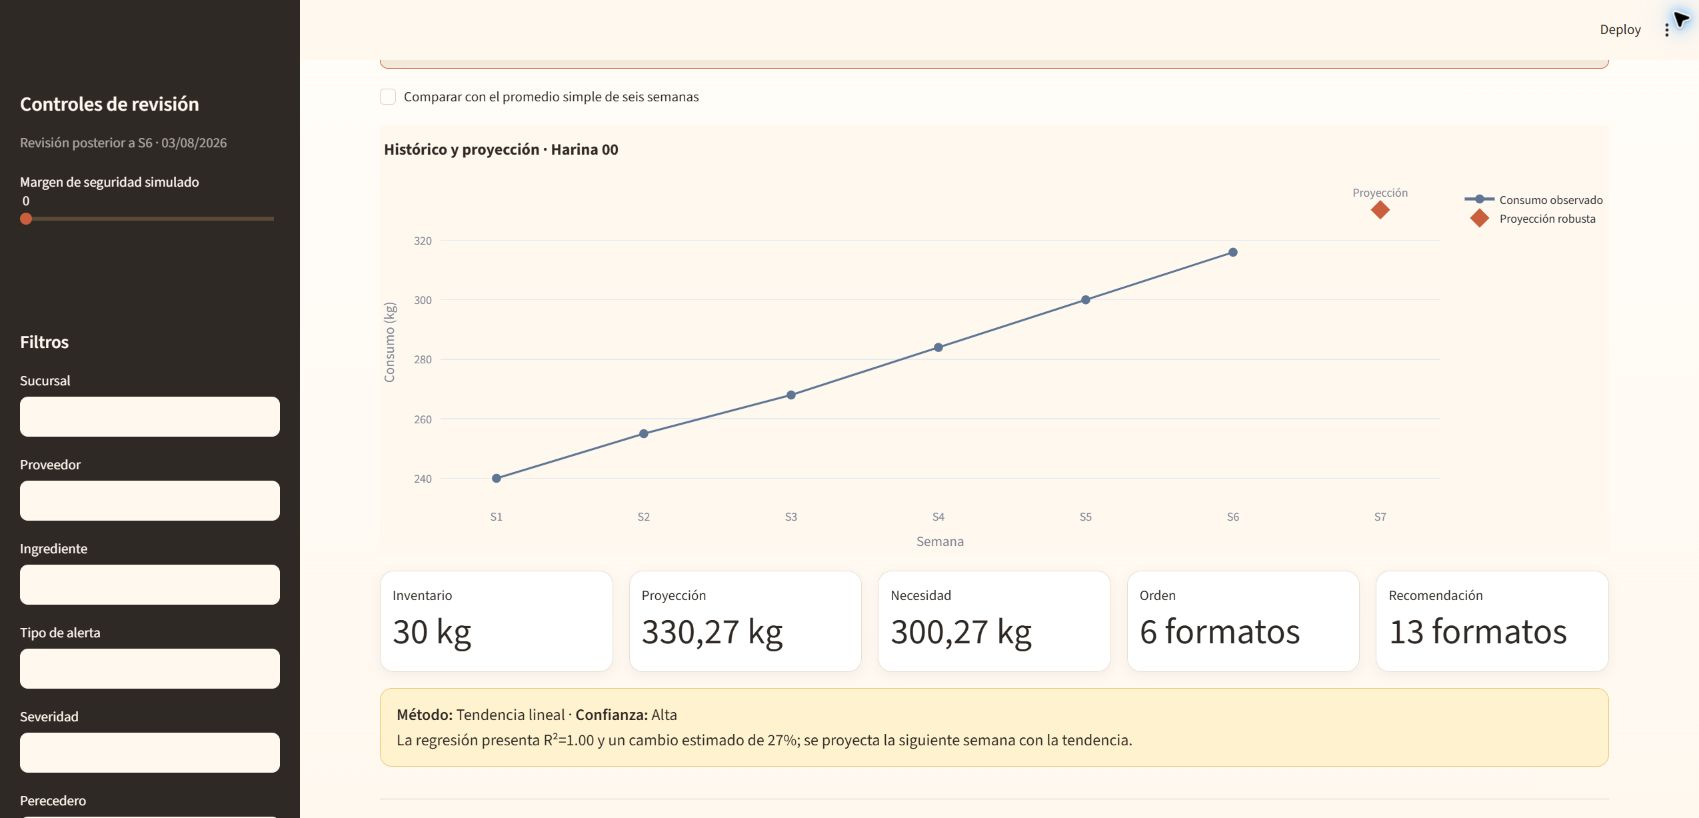
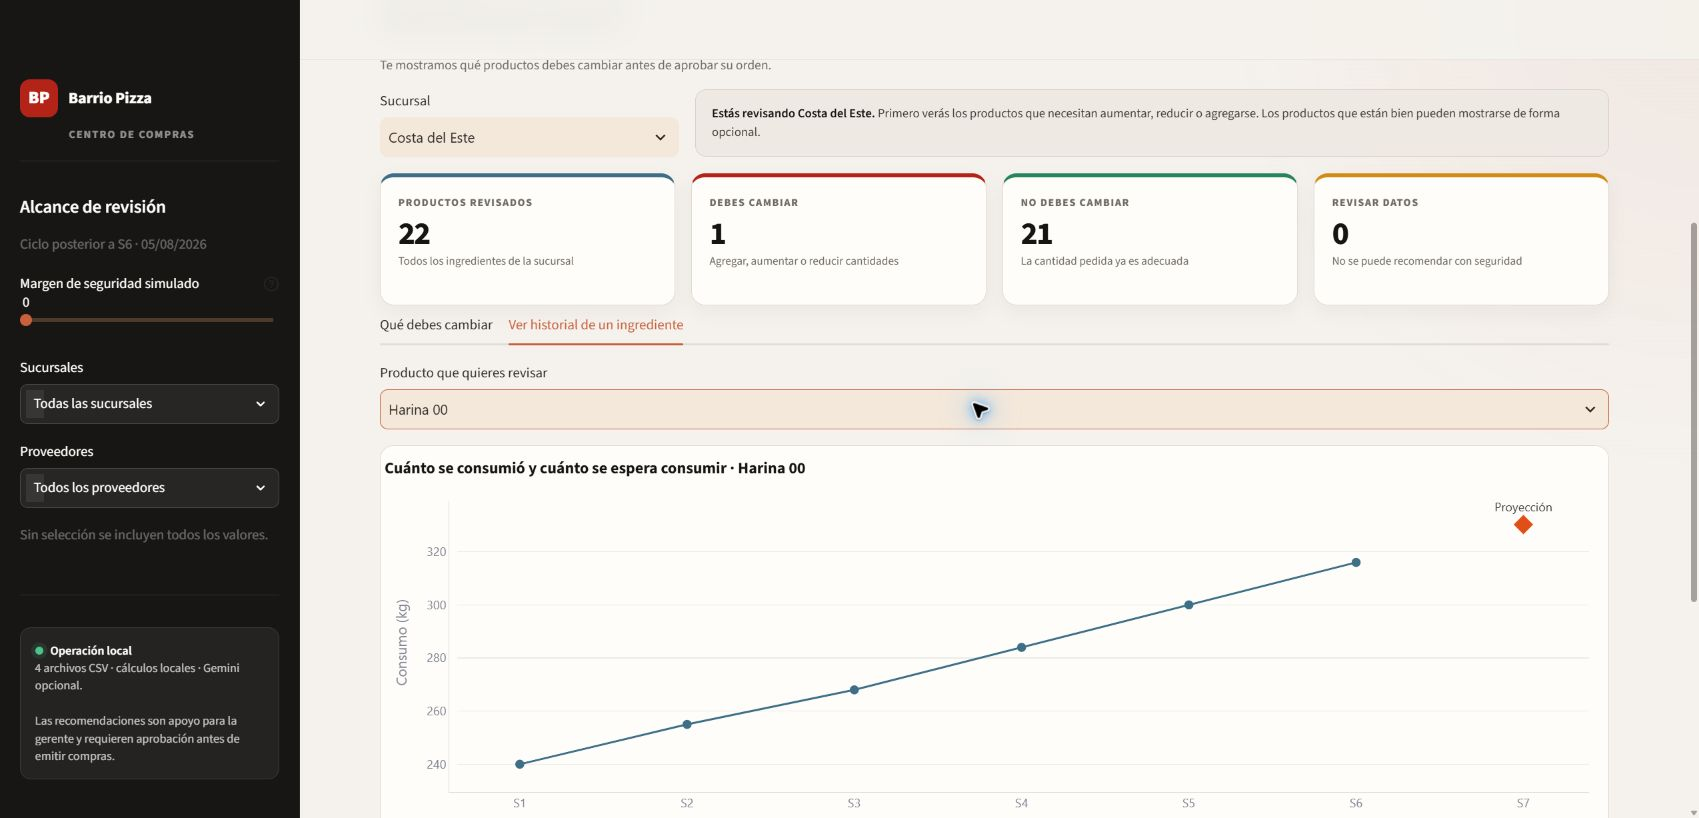
Actualiza README y capturas del dashboard

diff --git a/README.md b/README.md
@@ -6,19 +6,25 @@ El motor de compras y el asistente local funcionan completamente sin claves de A
 
 > El enunciado recibido se preserva sin cambios en [`docs/RETO_ORIGINAL.md`](docs/RETO_ORIGINAL.md).
 
-## Captura del dashboard
+## Capturas del producto
 
 ### Resumen ejecutivo
 
 ![Resumen ejecutivo del Asistente Inteligente de Compras](docs/dashboard_resumen.png)
 
-La vista principal concentra las 88 líneas revisadas, los estados que requieren atención y las alertas prioritarias, manteniendo visibles los filtros y la aprobación humana.
+La vista principal concentra las 88 líneas revisadas y muestra en una sola lectura el porcentaje sin ajuste, los riesgos de quiebre, los sobrepedidos y los errores de datos. La aclaración evita sumar dos veces las señales comparativas entre sucursales.
+
+### Asistente inteligente con evidencia
+
+![Consulta en español respondida por el asistente inteligente](docs/dashboard_asistente_inteligente.png)
+
+El chat responde sobre cifras calculadas previamente por Python, identifica el modo utilizado y conserva las fuentes en un panel desplegable. Si Gemini no está disponible, la misma interfaz continúa con el asistente local.
 
 ### Tendencia creciente y recomendación
 
 ![Detalle de la tendencia de Harina 00 en Costa del Este](docs/dashboard_tendencia_harina.png)
 
-El detalle muestra las seis semanas observadas, la proyección S7, el inventario disponible y la conversión de la necesidad a formatos completos de compra.
+El detalle de Costa del Este muestra el crecimiento de Harina 00 durante S1–S6 y la proyección S7. En la misma vista se observan inventario, consumo esperado, necesidad, formatos ordenados y recomendados.
 
 ## Descripción del problema de negocio
 
